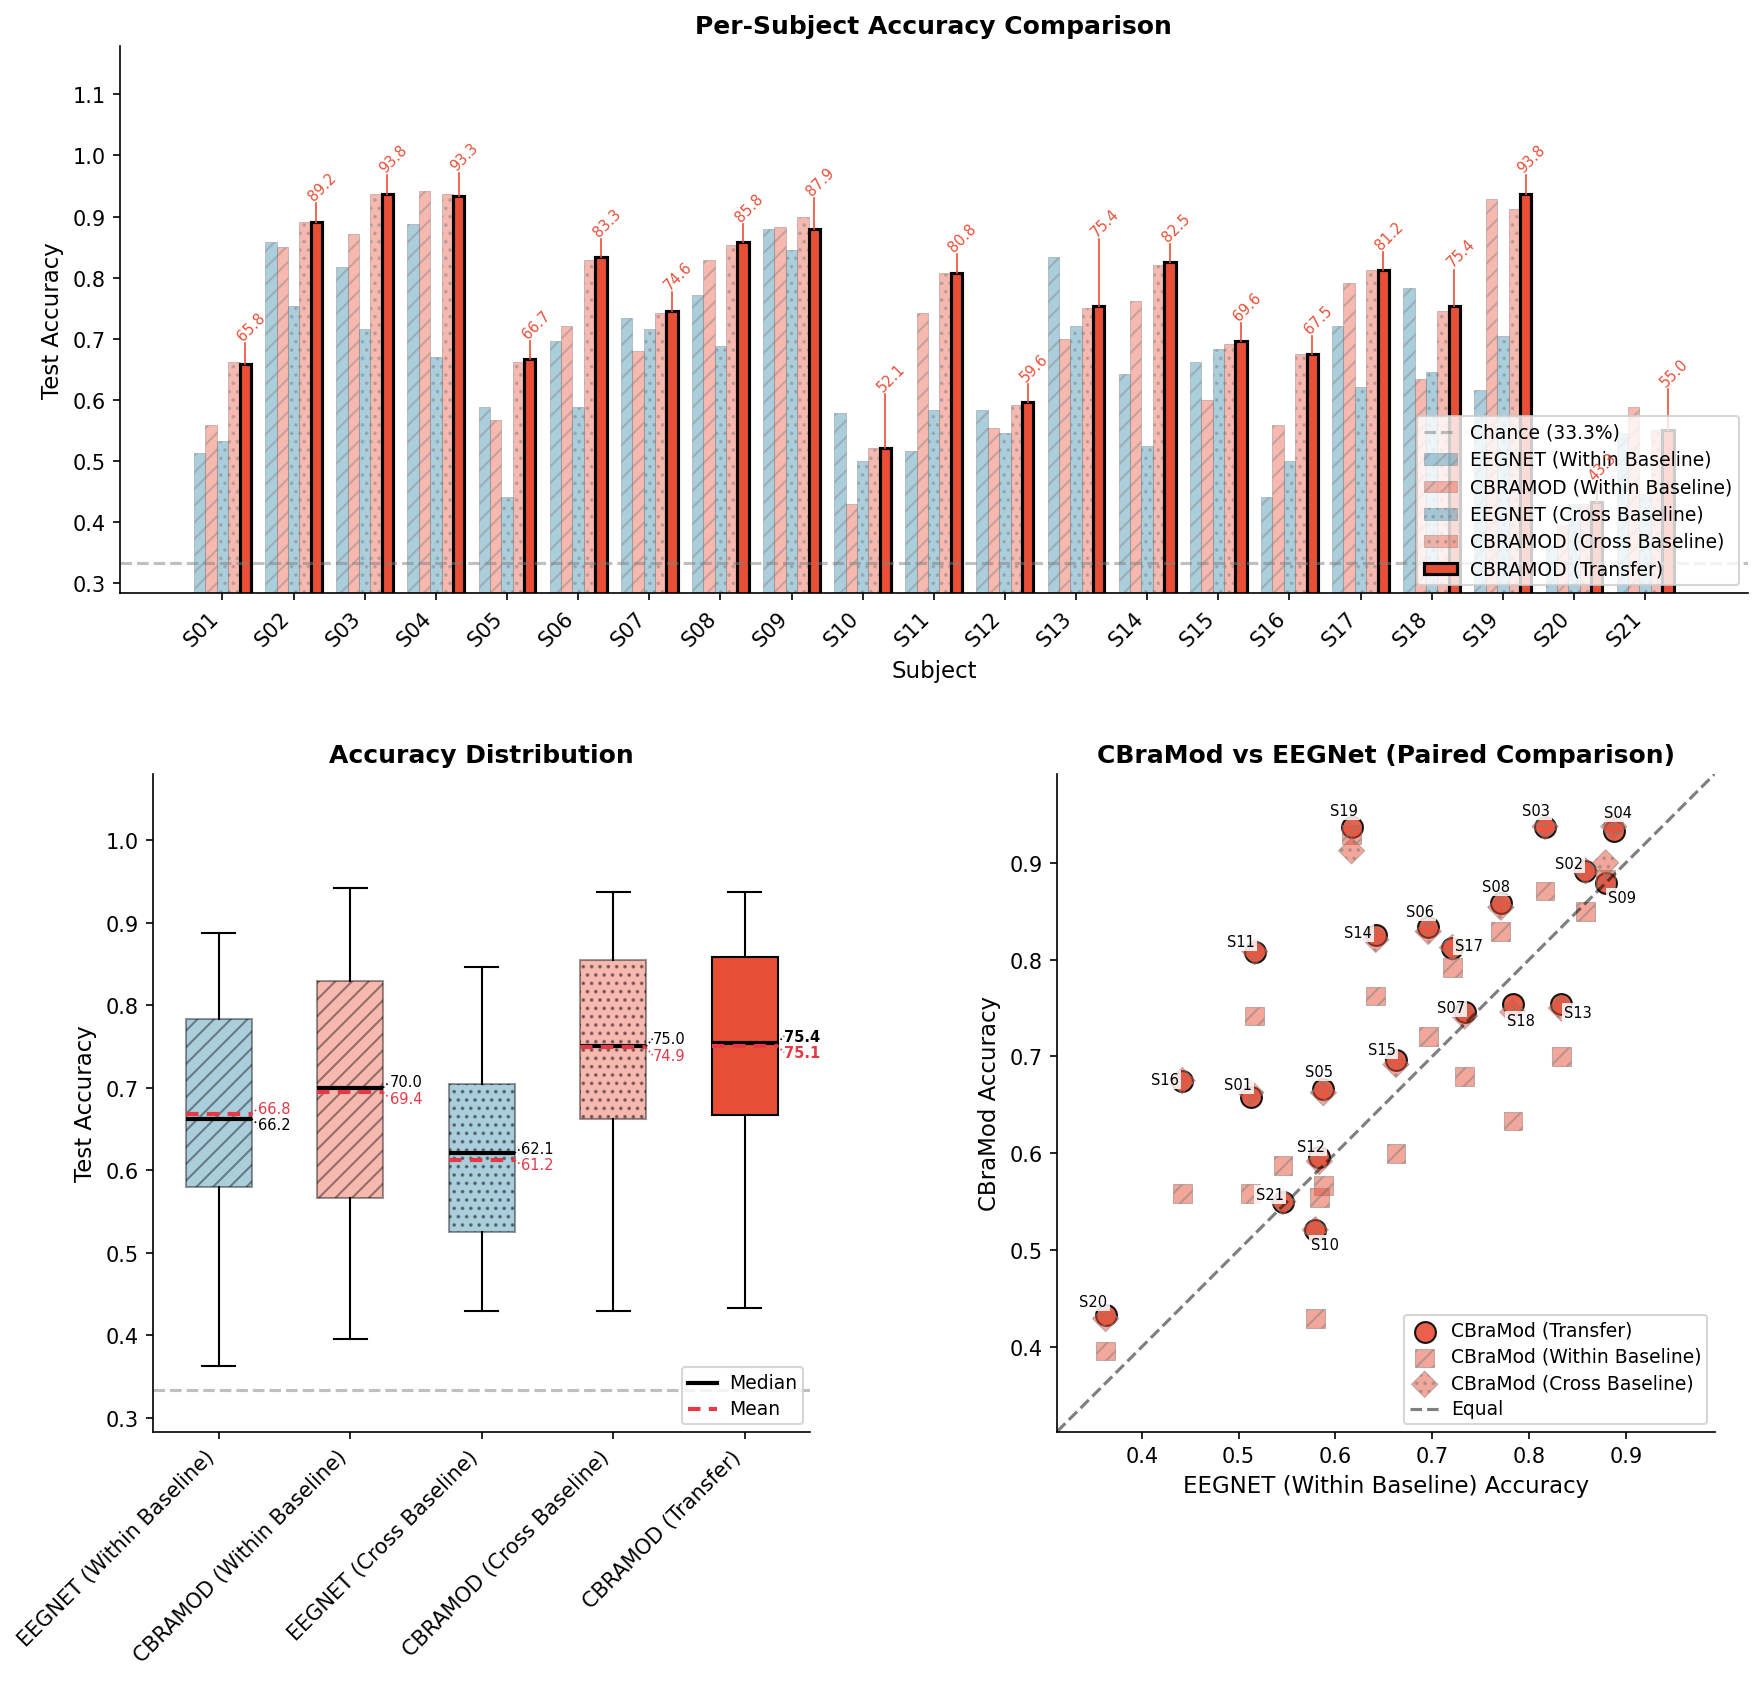
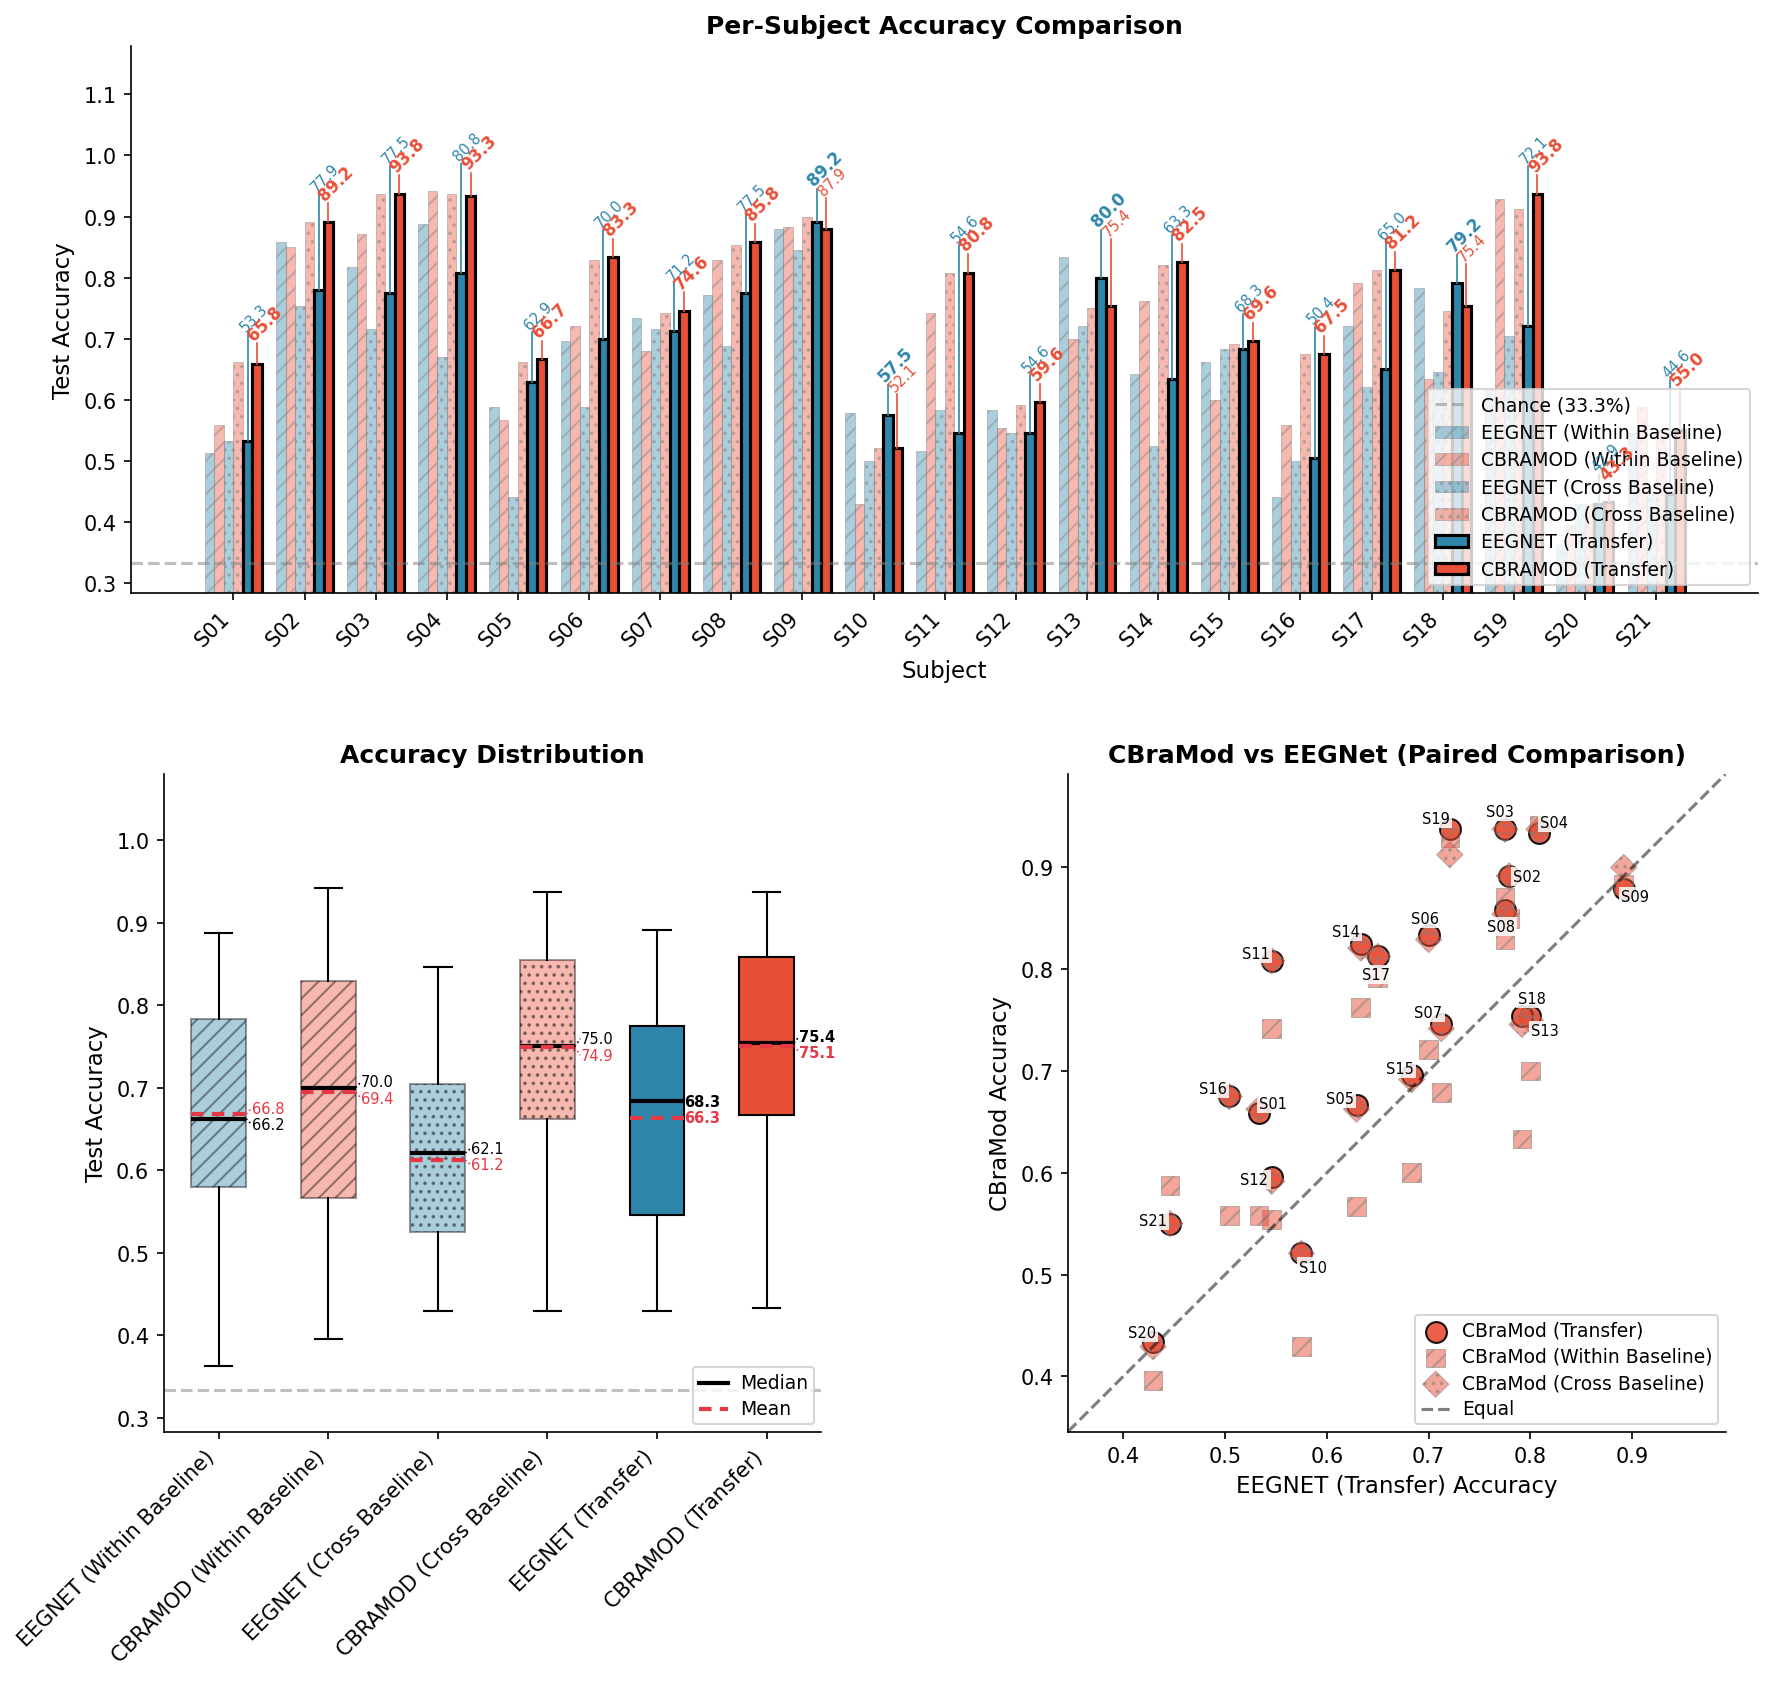
feat(fig6,§3.3): add EEGNet XSI-FT to fig6/6b + statistical significance
Fig 6 / 6b previously only included CBraMod's within/cross/transfer series
because at 2026-03-29 generation time, EEGNet 128ch XSI-FT had not yet been
run. EEGNet runs landed 2026-05-06/07 but never propagated to the figures.

This commit:

1. Adds `--merge-cache RUN_TAG` flag to run_transfer_comparison.py replot
   mode. Loads a second run's results_by_model from ExperimentDB and merges
   it into the primary context (with task/paradigm + model-key conflict
   guards). Lets us combine two single-model caches into a 6-way figure
   without retraining.

2. Updates fig6/6b in figure_registry.py to invoke the new flag, merging
   `20260507_1835` (EEGNet binary, n=21) and `20260507_1913` (EEGNet
   ternary, n=21) into the existing cbramod-only canonical caches.
   Canonical paths and paper-draft image refs are unchanged.

3. Regenerates the canonical PNGs as 6-way (EEGNet/CBraMod × within
   baseline / cross baseline / transfer).

4. Updates Table 11 + supporting narrative (§3.3, §3.7.1, §4.1, §4.8) to
   use the same `20260507_xxxx` runs that db.find_baseline_run() returns
   for EEGNet XSI-FT — resolves a pre-existing inconsistency where §3.3
   cited 20260506_xxxx (80.77% binary / 66.23% ternary) and §3.7.2 cited
   20260507_xxxx (82.05% / 66.33%). Subagent validation confirmed both
   run pairs share identical command / pretrained checkpoint / HP / git
   commit — recipe is bit-identical, difference is seed stochasticity.
[…]

diff --git a/scripts/experiments/run_transfer_comparison.py b/scripts/experiments/run_transfer_comparison.py
@@ -274,6 +274,11 @@ Examples:
                         help='How to choose historical reference runs for plots (default: baseline)')
     parser.add_argument('--baseline', action='store_true',
                         help='Mark this run as a designated baseline in ExperimentDB')
+    parser.add_argument('--merge-cache', type=str, default=None, metavar='RUN_TAG',
+                        help='Replot 模式专用：把另一个 run 的 results_by_model 合并进来再画图。'
+                             '用于把单模型 cache 拼成多模型对比图（例如 fig6 把 cbramod cache 与 '
+                             'eegnet XSI-FT baseline 合并）。两份 cache 的 model key 不可重叠，'
+                             '且 task/paradigm 必须一致。')
 
     # Override --task choices: transfer does NOT support 'unified'
     for action in parser._actions:
@@ -292,6 +297,40 @@ Examples:
             args.replot, 'transfer',
             results_dir_override=output_dir if output_dir != 'results' else None,
         )
+
+        if args.merge_cache:
+            merge_ctx = load_replot_context(
+                args.merge_cache, 'transfer',
+                results_dir_override=output_dir if output_dir != 'results' else None,
+            )
+            if merge_ctx['task'] != ctx['task'] or merge_ctx['paradigm'] != ctx['paradigm']:
+                log_main.error(
+                    f"--merge-cache task/paradigm mismatch: "
+                    f"{merge_ctx['paradigm']}/{merge_ctx['task']} vs "
+                    f"{ctx['paradigm']}/{ctx['task']}"
+                )
+                merge_ctx['db'].close()
+                ctx['db'].close()
+                return 1
+            for model_type, model_results in merge_ctx['results_by_model'].items():
+                if model_type in ctx['results_by_model']:
+                    log_main.error(
+                        f"--merge-cache conflict: model '{model_type}' present in both "
+                        f"{args.replot} and {args.merge_cache}"
+                    )
+                    merge_ctx['db'].close()
+                    ctx['db'].close()
+                    return 1
+                ctx['results_by_model'][model_type] = model_results
+            ctx['models'] = sorted(ctx['results_by_model'].keys())
+            ctx['subjects'] = sorted(set(ctx['subjects']) | set(merge_ctx['subjects']))
+            log_io.info(
+                f"Merged {args.merge_cache} into replot context: "
+                f"models={list(merge_ctx['results_by_model'].keys())}, "
+                f"combined models={ctx['models']}"
+            )
+            merge_ctx['db'].close()
+
         _generate_plots(
             results_by_model=ctx['results_by_model'],
             task=ctx['task'],

diff --git a/scripts/paper/figure_registry.py b/scripts/paper/figure_registry.py
@@ -185,7 +185,7 @@ _FIGS: list[FigureSpec] = [
         canonical_filename="20260329_0507_transfer_combined_imagery_binary.png",
         output_dir="results",
         generator_script="scripts/experiments/run_transfer_comparison.py",
-        generator_command="uv run python scripts/experiments/run_transfer_comparison.py --replot 20260329_0507 --cache-only",
+        generator_command="uv run python scripts/experiments/run_transfer_comparison.py --replot 20260329_0507 --merge-cache 20260507_1835 --cache-only",
     ),
     FigureSpec(
         fig_id="fig6b",
@@ -194,7 +194,7 @@ _FIGS: list[FigureSpec] = [
         canonical_filename="20260329_0448_transfer_combined_imagery_ternary.png",
         output_dir="results",
         generator_script="scripts/experiments/run_transfer_comparison.py",
-        generator_command="uv run python scripts/experiments/run_transfer_comparison.py --replot 20260329_0448 --cache-only",
+        generator_command="uv run python scripts/experiments/run_transfer_comparison.py --replot 20260329_0448 --merge-cache 20260507_1913 --cache-only",
     ),
     FigureSpec(
         fig_id="fig7",
